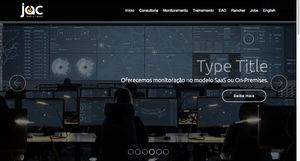
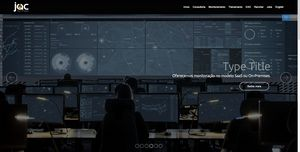
fix reproducao automatica slides index

diff --git a/index.html b/index.html
@@ -70,11 +70,11 @@
     </nav>
 </section>
 
-<section class="engine"><a href="https://mobirise.info/e">make your own site</a></section><section class="carousel slide cid-sLMPluGcsj" data-interval="false" id="slider1-6l">
+<section class="engine"><a href="https://mobirise.info/i">free web creation software</a></section><section class="carousel slide cid-sLMPluGcsj" data-interval="false" id="slider1-6l">
 
     
 
-    <div class="full-screen"><div class="mbr-slider slide carousel" data-pause="true" data-keyboard="false" data-ride="false" data-interval="false"><ol class="carousel-indicators"><li data-app-prevent-settings="" data-target="#slider1-6l" data-slide-to="0"></li><li data-app-prevent-settings="" data-target="#slider1-6l" data-slide-to="1"></li><li data-app-prevent-settings="" data-target="#slider1-6l" data-slide-to="2"></li><li data-app-prevent-settings="" data-target="#slider1-6l" class=" active" data-slide-to="3"></li><li data-app-prevent-settings="" data-target="#slider1-6l" data-slide-to="4"></li><li data-app-prevent-settings="" data-target="#slider1-6l" data-slide-to="5"></li></ol><div class="carousel-inner" role="listbox"><div class="carousel-item slider-fullscreen-image" data-bg-video-slide="false" style="background-image: url(assets/images/mbr-1.jpg);"><div class="container container-slide"><div class="image_wrapper"><div class="mbr-overlay"></div><img src="assets/images/mbr-1.jpg"><div class="carousel-caption justify-content-center"><div class="col-10 align-right"><h2 class="mbr-fonts-style display-2">Somos&nbsp;<strong>referência</strong> em consultoria Kubernetes</h2><p class="lead mbr-text mbr-fonts-style display-5">Oferecemos consultoria em Cloud Native, DevOps e CI/CD.<br></p></div></div></div></div></div><div class="carousel-item slider-fullscreen-image" data-bg-video-slide="false" style="background-image: url(assets/images/mbr.jpg);"><div class="container container-slide"><div class="image_wrapper"><div class="mbr-overlay"></div><img src="assets/images/mbr.jpg"><div class="carousel-caption justify-content-center"><div class="col-10 align-right"><h2 class="mbr-fonts-style display-1"></h2><p class="lead mbr-text mbr-fonts-style display-5">Desenvolvemos soluções inovadoras para automação</p></div></div></div></div></div><div class="carousel-item slider-fullscreen-image" data-bg-video-slide="false" style="background-image: url(assets/images/mbr-2.jpg);"><div class="container container-slide"><div class="image_wrapper"><div class="mbr-overlay"></div><img src="assets/images/mbr-2.jpg"><div class="carousel-caption justify-content-center"><div class="col-10 align-right"><h2 class="mbr-fonts-style display-1"></h2><p class="lead mbr-text mbr-fonts-style display-5">Construímos treinamentos <strong>sob medida</strong> para nossos clientes, estilo <strong>hands on</strong>.<br></p></div></div></div></div></div><div class="carousel-item slider-fullscreen-image active" data-bg-video-slide="false" style="background-image: url(assets/images/noc-1920x1080.jpg);"><div class="container container-slide"><div class="image_wrapper"><div class="mbr-overlay"></div><img src="assets/images/noc-1920x1080.jpg"><div class="carousel-caption justify-content-center"><div class="col-10 align-right"><h2 class="mbr-fonts-style display-1"></h2><p class="lead mbr-text mbr-fonts-style display-5">Oferecemos monitoração no modelo SaaS ou On-Premises.<br></p><div class="mbr-section-btn" buttons="0"> <a class="btn  btn-white-outline display-4" href="https://jacexperts.io/monitoramento">Saiba mais</a></div></div></div></div></div></div><div class="carousel-item slider-fullscreen-image" data-bg-video-slide="false" style="background-image: url(assets/images/youtube-1440x1080.jpg);"><div class="container container-slide"><div class="image_wrapper"><div class="mbr-overlay"></div><img src="assets/images/youtube-1440x1080.jpg"><div class="carousel-caption justify-content-center"><div class="col-10 align-right"><h2 class="mbr-fonts-style display-1"></h2><p class="lead mbr-text mbr-fonts-style display-5">Acompanhe nossas lives e <strong>vídeos</strong> no You Tube.</p><div class="mbr-section-btn" buttons="0"> <a class="btn  btn-white-outline display-4" href="https://www.youtube.com/channel/UCJQMRRNbRwl5Fw5TiNxKFHA" target="_blank">Acessar canal</a></div></div></div></div></div></div><div class="carousel-item slider-fullscreen-image" data-bg-video-slide="false" style="background-image: url(assets/images/screenshot-from-2019-07-02-17-26-20-1912x963.png);"><div class="container container-slide"><div class="image_wrapper"><div class="mbr-overlay"></div><img src="assets/images/screenshot-from-2019-07-02-17-26-20-1912x963.png"><div class="carousel-caption justify-content-center"><div class="col-10 align-right"><h2 class="mbr-fonts-style display-1"></h2><p class="lead mbr-text mbr-fonts-style display-5">Conheça a plataforma de <strong>gerenciamento de clusters Kubernetes</strong> que mais cresce no mundo!</p><div class="mbr-section-btn" buttons="0"> <a class="btn  btn-white-outline display-4" href="https://jacexperts.io/rancher">Saiba mais</a></div></div></div></div></div></div></div><a data-app-prevent-settings="" class="carousel-control carousel-control-prev" role="button" data-slide="prev" href="#slider1-6l"><span aria-hidden="true" class="mbri-left mbr-iconfont"></span><span class="sr-only">Previous</span></a><a data-app-prevent-settings="" class="carousel-control carousel-control-next" role="button" data-slide="next" href="#slider1-6l"><span aria-hidden="true" class="mbri-right mbr-iconfont"></span><span class="sr-only">Next</span></a></div></div>
+    <div class="full-screen"><div class="mbr-slider slide carousel" data-pause="true" data-keyboard="false" data-ride="carousel" data-interval="4000"><ol class="carousel-indicators"><li data-app-prevent-settings="" data-target="#slider1-6l" class=" active" data-slide-to="0"></li><li data-app-prevent-settings="" data-target="#slider1-6l" data-slide-to="1"></li><li data-app-prevent-settings="" data-target="#slider1-6l" data-slide-to="2"></li><li data-app-prevent-settings="" data-target="#slider1-6l" data-slide-to="3"></li><li data-app-prevent-settings="" data-target="#slider1-6l" data-slide-to="4"></li><li data-app-prevent-settings="" data-target="#slider1-6l" data-slide-to="5"></li></ol><div class="carousel-inner" role="listbox"><div class="carousel-item slider-fullscreen-image active" data-bg-video-slide="false" style="background-image: url(assets/images/mbr-1.jpg);"><div class="container container-slide"><div class="image_wrapper"><div class="mbr-overlay"></div><img src="assets/images/mbr-1.jpg"><div class="carousel-caption justify-content-center"><div class="col-10 align-right"><h2 class="mbr-fonts-style display-2">Somos&nbsp;<strong>referência</strong> em consultoria Kubernetes</h2><p class="lead mbr-text mbr-fonts-style display-5">Oferecemos consultoria em Cloud Native, DevOps e CI/CD.<br></p></div></div></div></div></div><div class="carousel-item slider-fullscreen-image" data-bg-video-slide="false" style="background-image: url(assets/images/mbr.jpg);"><div class="container container-slide"><div class="image_wrapper"><div class="mbr-overlay"></div><img src="assets/images/mbr.jpg"><div class="carousel-caption justify-content-center"><div class="col-10 align-right"><h2 class="mbr-fonts-style display-1"></h2><p class="lead mbr-text mbr-fonts-style display-5">Desenvolvemos soluções inovadoras para automação</p></div></div></div></div></div><div class="carousel-item slider-fullscreen-image" data-bg-video-slide="false" style="background-image: url(assets/images/mbr-2.jpg);"><div class="container container-slide"><div class="image_wrapper"><div class="mbr-overlay"></div><img src="assets/images/mbr-2.jpg"><div class="carousel-caption justify-content-center"><div class="col-10 align-right"><h2 class="mbr-fonts-style display-1"></h2><p class="lead mbr-text mbr-fonts-style display-5">Construímos treinamentos <strong>sob medida</strong> para nossos clientes, estilo <strong>hands on</strong>.<br></p></div></div></div></div></div><div class="carousel-item slider-fullscreen-image" data-bg-video-slide="false" style="background-image: url(assets/images/noc-1920x1080.jpg);"><div class="container container-slide"><div class="image_wrapper"><div class="mbr-overlay"></div><img src="assets/images/noc-1920x1080.jpg"><div class="carousel-caption justify-content-center"><div class="col-10 align-right"><h2 class="mbr-fonts-style display-1"></h2><p class="lead mbr-text mbr-fonts-style display-5">Oferecemos monitoração no modelo SaaS ou On-Premises.<br></p><div class="mbr-section-btn" buttons="0"> <a class="btn  btn-white-outline display-4" href="https://jacexperts.io/monitoramento">Saiba mais</a></div></div></div></div></div></div><div class="carousel-item slider-fullscreen-image" data-bg-video-slide="false" style="background-image: url(assets/images/youtube-1440x1080.jpg);"><div class="container container-slide"><div class="image_wrapper"><div class="mbr-overlay"></div><img src="assets/images/youtube-1440x1080.jpg"><div class="carousel-caption justify-content-center"><div class="col-10 align-right"><h2 class="mbr-fonts-style display-1"></h2><p class="lead mbr-text mbr-fonts-style display-5">Acompanhe nossas lives e <strong>vídeos</strong> no You Tube.</p><div class="mbr-section-btn" buttons="0"> <a class="btn  btn-white-outline display-4" href="https://www.youtube.com/channel/UCJQMRRNbRwl5Fw5TiNxKFHA" target="_blank">Acessar canal</a></div></div></div></div></div></div><div class="carousel-item slider-fullscreen-image" data-bg-video-slide="false" style="background-image: url(assets/images/screenshot-from-2019-07-02-17-26-20-1912x963.png);"><div class="container container-slide"><div class="image_wrapper"><div class="mbr-overlay"></div><img src="assets/images/screenshot-from-2019-07-02-17-26-20-1912x963.png"><div class="carousel-caption justify-content-center"><div class="col-10 align-right"><h2 class="mbr-fonts-style display-1"></h2><p class="lead mbr-text mbr-fonts-style display-5">Conheça a plataforma de <strong>gerenciamento de clusters Kubernetes</strong> que mais cresce no mundo!</p><div class="mbr-section-btn" buttons="0"> <a class="btn  btn-white-outline display-4" href="https://jacexperts.io/rancher">Saiba mais</a></div></div></div></div></div></div></div><a data-app-prevent-settings="" class="carousel-control carousel-control-prev" role="button" data-slide="prev" href="#slider1-6l"><span aria-hidden="true" class="mbri-left mbr-iconfont"></span><span class="sr-only">Previous</span></a><a data-app-prevent-settings="" class="carousel-control carousel-control-next" role="button" data-slide="next" href="#slider1-6l"><span aria-hidden="true" class="mbri-right mbr-iconfont"></span><span class="sr-only">Next</span></a></div></div>
 
 </section>
 
@@ -167,7 +167,7 @@
                     <div class="media-container-column" data-form-type="formoid">
                         <!---Formbuilder Form--->
                       
[2 lines of base64/hex data omitted]
                             <div class="row">
                                 <div hidden="hidden" data-form-alert="" class="alert alert-success col-12">Em breve responderemos sua mensagem!</div>
                                 <div hidden="hidden" data-form-alert-danger="" class="alert alert-danger col-12">

diff --git a/consultoria.html b/consultoria.html
@@ -71,7 +71,7 @@
     </nav>
 </section>
 
-<section class="engine"><a href="https://mobirise.info/b">create your own site for free</a></section><section class="cid-s68hXDiDG4 mbr-fullscreen mbr-parallax-background" id="header2-2u">
+<section class="engine"><a href="https://mobirise.info/g">how to build a website</a></section><section class="cid-s68hXDiDG4 mbr-fullscreen mbr-parallax-background" id="header2-2u">
 
     
 
@@ -205,12 +205,12 @@
                     <div id="bootstrap-toggle" class="toggle-panel accordionStyles tab-content">
                         <div class="card">
                             <div class="card-header" role="tab" id="headingOne">
-                                <a role="button" class="collapsed panel-title text-black" data-toggle="collapse" data-core="" href="#collapse1_23" aria-expanded="false" aria-controls="collapse1">
+                                <a role="button" class="collapsed panel-title text-black" data-toggle="collapse" data-core="" href="#collapse1_15" aria-expanded="false" aria-controls="collapse1">
                                     <h4 class="mbr-fonts-style display-5">
                                         <span class="sign mbr-iconfont mbri-arrow-down inactive"></span>Mentoria e treinamentos</h4>
                                 </a>
                             </div>
-                            <div id="collapse1_23" class="panel-collapse noScroll collapse" role="tabpanel" aria-labelledby="headingOne">
+                            <div id="collapse1_15" class="panel-collapse noScroll collapse" role="tabpanel" aria-labelledby="headingOne">
                                 <div class="panel-body p-4">
                                     <p class="mbr-fonts-style panel-text display-7">Nosso profissionais possuem muita experiência com treinamentos e capacitação, especialmente dentro do Governo Federal e grandes organizações privadas.<br><br>Procuramos aliar o conhecimento teórico e prático, equilibrando o treinamento para que nossos alunos retornem para suas respectivas organizações com condições de aplicar o conhecimento adquirido.<br><br>Todos os treinamentos são executados em formato hands on.<br><br>Treinamentos relativos a metodologias, técnicas, culturas e conceitos:<br> <br>- DevOps<br>- Infra Ágil<br>- Infra As Code<br>- Continuous Integration<br>- Continuous Delivery<br>- Microserviços<br>- Containers<br><br>Treinamentos das tecnologias:<br><br>- Puppet<br>- Ansible<br>- Nexus Repo<br>- MatterMost<br>- RocketChat<br>- Jitsi<br>- NextCloud<br>- Git na linha de comando<br>- GitLab/GitHub/Bitbucket<br>- Jenkins<br>- GitLab CI + GitLab Runners<br>- Docker + Docker Composer<br>- Kubernetes<br>- Rundeck<br>- Terraform<br>- Rancher<br>- RKE<br>- Passbolt<br>- ProxMox<br><br>Adaptamos nosso material às necessidades de cada cliente, dando foco especial nos temas e tópicos de maior valor para aquele cliente ou projeto.</p>
                                 </div>
@@ -218,13 +218,13 @@
                         </div>
                         <div class="card">
                             <div class="card-header" role="tab" id="headingTwo">
-                                <a role="button" class="collapsed panel-title text-black" data-toggle="collapse" data-core="" href="#collapse2_23" aria-expanded="false" aria-controls="collapse2">
+                                <a role="button" class="collapsed panel-title text-black" data-toggle="collapse" data-core="" href="#collapse2_15" aria-expanded="false" aria-controls="collapse2">
                                     <h4 class="mbr-fonts-style display-5">
                                         <span class="sign mbr-iconfont mbri-arrow-down inactive"></span> Consultoria</h4>
                                 </a>
 
                             </div>
-                            <div id="collapse2_23" class="panel-collapse noScroll collapse" role="tabpanel" aria-labelledby="headingTwo">
+                            <div id="collapse2_15" class="panel-collapse noScroll collapse" role="tabpanel" aria-labelledby="headingTwo">
                                 <div class="panel-body p-4">
                                     <p class="mbr-fonts-style panel-text display-7">Oferecemos consultoria nas seguinte áreas:<br><br>- Desenho de ambientes Linux escaláveis;<br>- Alta disponibilidade de serviços;<br>- DevOps;<br>- SRE;<br>- Infra as Code;<br>- Cloud Native APPs;<br>- Automação, Gerência de configuração e Orquestração;<br>- Monitoramento de aplicações e telemetria;<br>- Centralização de logs e telemetria;<br>- Continuous Integration e Continuous Delivery;<br>- Containerização de APPs;<br>- Migração de APPs para nuvem;<br>- Computação em Nuvem;<br>- Recuperação de falhas em ambientes críticos;<br>- Análise de ambientes com proposição de melhorias via automação e métodos;<br>- Avaliação da situação DevOps de sua organização.</p>
                                 </div>
@@ -232,12 +232,12 @@
                         </div>
                         <div class="card">
                             <div class="card-header" role="tab" id="headingThree">
-                                <a role="button" class="collapsed panel-title text-black" data-toggle="collapse" data-core="" href="#collapse3_23" aria-expanded="false" aria-controls="collapse3">
+                                <a role="button" class="collapsed panel-title text-black" data-toggle="collapse" data-core="" href="#collapse3_15" aria-expanded="false" aria-controls="collapse3">
                                     <h4 class="mbr-fonts-style display-5">
                                         <span class="sign mbr-iconfont mbri-arrow-down inactive"></span> Implantação e automação</h4>
                                 </a>
                             </div>
-                            <div id="collapse3_23" class="panel-collapse noScroll collapse" role="tabpanel" aria-labelledby="headingThree">
+                            <div id="collapse3_15" class="panel-collapse noScroll collapse" role="tabpanel" aria-labelledby="headingThree">
                                 <div class="panel-body p-4">
                                     <p class="mbr-fonts-style panel-text display-7">Implantação de ambientes:<br><br>- Puppet;<br>- GitLab;<br>- Nexus;<br>- MatterMost<br>- RocketChat;<br>- Jitsi;<br>- Jenkins;<br>- Rancher<br>- Kubernetes;<br>- ProxMox;<br>- Ansible;<br>- Docker;<br>- Rundeck;<br>- Terraform.<br><br>Construção de esteiras:<br><br>- Criação de esteiras/pipelines CI/CD usando GitLab CI;<br>- Criação de esteiras/pipelines CI/CD usando seu CI existente.<br><br>Automação:<br><br>- Automação de sistemas e serviços utilizando Puppet, Ansible, Rundeck e Terraform.</p>
                                 </div>
@@ -245,12 +245,12 @@
                         </div>
                         <div class="card">
                             <div class="card-header" role="tab" id="headingThree">
-                                <a role="button" class="collapsed panel-title text-black" data-toggle="collapse" data-core="" href="#collapse4_23" aria-expanded="false" aria-controls="collapse4">
+                                <a role="button" class="collapsed panel-title text-black" data-toggle="collapse" data-core="" href="#collapse4_15" aria-expanded="false" aria-controls="collapse4">
                                     <h4 class="mbr-fonts-style display-5">
                                         <span class="sign mbr-iconfont mbri-arrow-down inactive"></span>Gerenciamento de Crises</h4>
                                 </a>
                             </div>
-                            <div id="collapse4_23" class="panel-collapse noScroll collapse" role="tabpanel" aria-labelledby="headingThree">
+                            <div id="collapse4_15" class="panel-collapse noScroll collapse" role="tabpanel" aria-labelledby="headingThree">
                                 <div class="panel-body p-4">
                                     <p class="mbr-fonts-style panel-text display-7">Atuamos presencialmente durante crises e incidentes críticos, gerenciando e conduzindo os trabalhos em "salas de guerra", apoiando na organização de times e atividades, na identificação do problema, na avaliação de riscos, na organização do plano de ação, na distribuíção do time de resposta, na comunicação com organizações internas e externas diretamente relacionadas ao incidente e na construção do post-mortem.<br></p>
                                 </div>
@@ -283,7 +283,7 @@
                     <div class="media-container-column" data-form-type="formoid">
                         <!---Formbuilder Form--->
                       
[2 lines of base64/hex data omitted]
                             <div class="row">
                                 <div hidden="hidden" data-form-alert="" class="alert alert-success col-12">Em breve responderemos sua mensagem!</div>
                                 <div hidden="hidden" data-form-alert-danger="" class="alert alert-danger col-12">

diff --git a/rancher.html b/rancher.html
@@ -70,7 +70,7 @@
     </nav>
 </section>
 
-<section class="engine"><a href="https://mobirise.info/o">free portfolio site templates</a></section><section class="cid-s7oRQzEZTF mbr-fullscreen mbr-parallax-background" id="header2-38">
+<section class="engine"><a href="https://mobirise.info/b">create your own website for free</a></section><section class="cid-s7oRQzEZTF mbr-fullscreen mbr-parallax-background" id="header2-38">
 
     
 
@@ -545,7 +545,7 @@
                     <div class="media-container-column" data-form-type="formoid">
                         <!---Formbuilder Form--->
                       
[2 lines of base64/hex data omitted]
                             <div class="row">
                                 <div hidden="hidden" data-form-alert="" class="alert alert-success col-12">Em breve responderemos sua mensagem!</div>
                                 <div hidden="hidden" data-form-alert-danger="" class="alert alert-danger col-12">

diff --git a/academia.html b/academia.html
@@ -72,7 +72,7 @@
     </nav>
 </section>
 
-<section class="engine"><a href="https://mobirise.info/v">free html templates</a></section><section class="cid-s7rXZwjT1E mbr-fullscreen mbr-parallax-background" id="header2-3o">
+<section class="engine"><a href="https://mobirise.info/q">free responsive website templates</a></section><section class="cid-s7rXZwjT1E mbr-fullscreen mbr-parallax-background" id="header2-3o">
 
     
 
@@ -400,7 +400,7 @@
                     <div class="media-container-column" data-form-type="formoid">
                         <!---Formbuilder Form--->
                       
[2 lines of base64/hex data omitted]
                             <div class="row">
                                 <div hidden="hidden" data-form-alert="" class="alert alert-success col-12">Em breve responderemos sua mensagem!</div>
                                 <div hidden="hidden" data-form-alert-danger="" class="alert alert-danger col-12">

diff --git a/monitoramento.html b/monitoramento.html
@@ -72,7 +72,7 @@
     </nav>
 </section>
 
-<section class="engine"><a href="https://mobirise.info/d">web maker</a></section><section class="cid-s681TufhsR mbr-fullscreen mbr-parallax-background" id="header2-2h">
+<section class="engine"><a href="https://mobirise.info/l">free website templates</a></section><section class="cid-s681TufhsR mbr-fullscreen mbr-parallax-background" id="header2-2h">
 
     
 
@@ -395,7 +395,7 @@
                     <div class="media-container-column" data-form-type="formoid">
                         <!---Formbuilder Form--->
                       
[2 lines of base64/hex data omitted]
                             <div class="row">
                                 <div hidden="hidden" data-form-alert="" class="alert alert-success col-12">Em breve responderemos sua mensagem!</div>
                                 <div hidden="hidden" data-form-alert-danger="" class="alert alert-danger col-12">

diff --git a/english.html b/english.html
@@ -70,7 +70,7 @@
     </nav>
 </section>
 
-<section class="engine"><a href="https://mobirise.info/o">free portfolio web templates</a></section><section class="carousel slide cid-s7spkwKXF5" data-interval="false" id="slider1-4a">
+<section class="engine"><a href="https://mobirise.info/l">free site templates</a></section><section class="carousel slide cid-s7spkwKXF5" data-interval="false" id="slider1-4a">
 
     
 
@@ -160,7 +160,7 @@
                     <div class="media-container-column" data-form-type="formoid">
                         <!---Formbuilder Form--->
                       
[2 lines of base64/hex data omitted]
                             <div class="row">
                                 <div hidden="hidden" data-form-alert="" class="alert alert-success col-12">Thank you for getting in touch! 
 

diff --git a/lives.html b/lives.html
@@ -70,7 +70,7 @@
     </nav>
 </section>
 
-<section class="engine"><a href="https://mobirise.info/p">web templates free download</a></section><section class="header6 cid-s5WNb8tjXU mbr-fullscreen mbr-parallax-background" id="header6-1f">
+<section class="engine"><a href="https://mobirise.info/k">develop free website</a></section><section class="header6 cid-s5WNb8tjXU mbr-fullscreen mbr-parallax-background" id="header6-1f">
 
     
 

diff --git a/treinamento_k8s_rancher.html b/treinamento_k8s_rancher.html
@@ -70,7 +70,7 @@
     </nav>
 </section>
 
-<section class="engine"><a href="https://mobirise.info/g">build your own website</a></section><section class="cid-saF5YMDWrL mbr-fullscreen mbr-parallax-background" id="header2-4x">
+<section class="engine"><a href="https://mobirise.info/g">how to build your own website for free</a></section><section class="cid-saF5YMDWrL mbr-fullscreen mbr-parallax-background" id="header2-4x">
 
     
 

diff --git a/jobs.html b/jobs.html
@@ -70,7 +70,7 @@
     </nav>
 </section>
 
-<section class="engine"><a href="https://mobirise.info/b">how to create your own site for free</a></section><section class="cid-sbBJFZrTkl mbr-fullscreen mbr-parallax-background" id="header2-5f">
+<section class="engine"><a href="https://mobirise.info/s">free bootstrap themes</a></section><section class="cid-sbBJFZrTkl mbr-fullscreen mbr-parallax-background" id="header2-5f">
 
     
 

diff --git a/privacidade.html b/privacidade.html
@@ -70,7 +70,7 @@
     </nav>
 </section>
 
-<section class="engine"><a href="https://mobirise.info/g">build a site for free</a></section><section class="cid-sKdUd1Jpxq mbr-fullscreen mbr-parallax-background" id="header2-6d">
+<section class="engine"><a href="https://mobirise.info/f">simple web maker</a></section><section class="cid-sKdUd1Jpxq mbr-fullscreen mbr-parallax-background" id="header2-6d">
 
     
 
